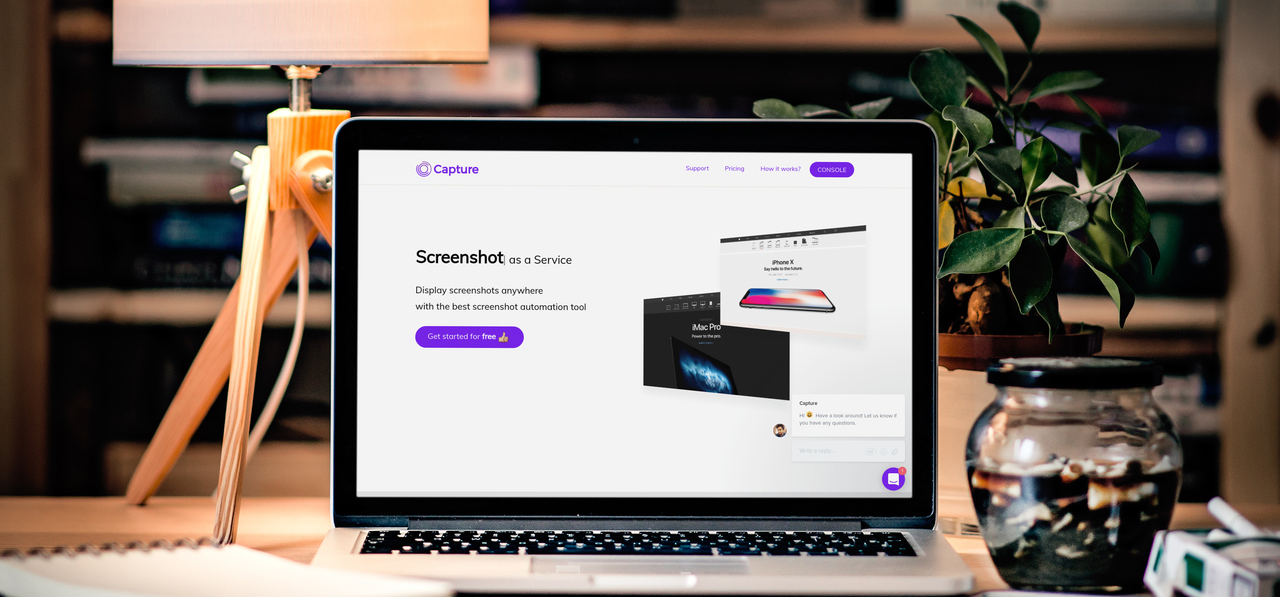
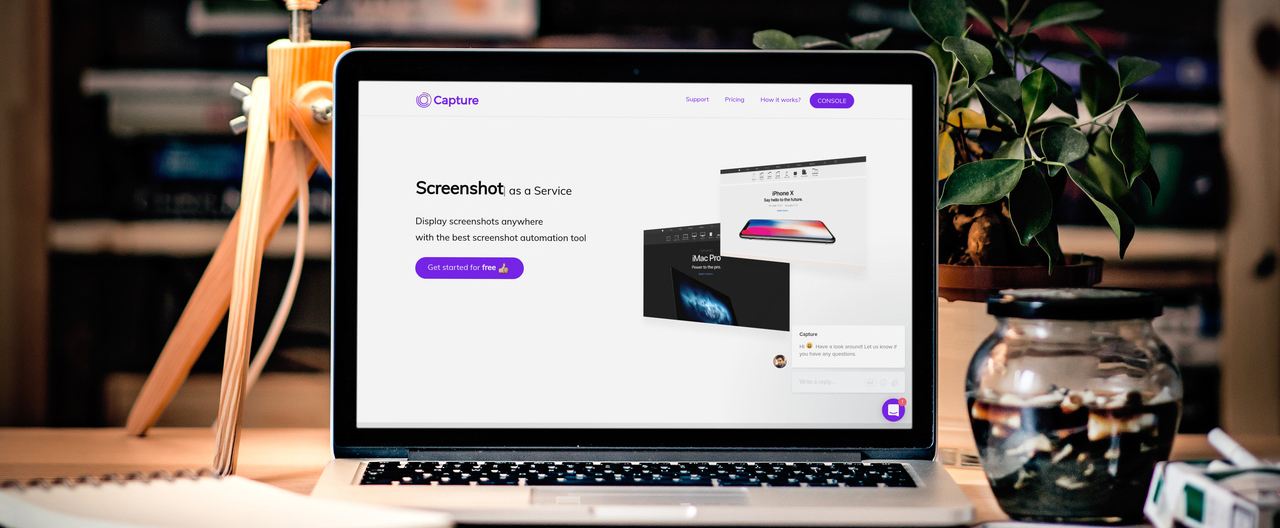
Update UI

diff --git a/index.html b/index.html
@@ -52,8 +52,19 @@
       color: rgb(33, 153, 256) !important;
     }
 
-    p {
-      font-size: 24px;
+    .title {
+      font-size: 5.2rem !important;
+      letter-spacing: -1px;
+      font-weight: 900;
+      margin-bottom: 0;
+    }
+
+    .subtitle {
+      font-size: 3rem !important;
+      letter-spacing: -1px;
+      font-weight: 600;
+      color: #6a737d !important;
+      margin-bottom: 24px;
     }
   </style>
 </head>
@@ -63,51 +74,47 @@
   <div class="container hidden-xs hidden-sm">
     <h1 class="logo"><a href="/"><img width="300" src="assets/img/logo.png" /></a></h1>
 
-    <div
-      style="position: relative; margin: 50px 0; border-radius: 0px; width: 100%; height: 405px; background-image: url(./assets/img/capture.jpg); background-size: cover;">
-      <div class="js-tilt"
-        style="border-radius: 5px; position: absolute; top: 20px; padding: 20px; padding-top: 10px; right: -10px;">
-        <h3><a href="https://capture.techulus.in/" target="_blank">Capture</a></h3>
-        <p>Enterprise Grade Screenshot & PDF API</p>
-      </div>
+    <a href="https://capture.techulus.in/" target="_blank">
+      <p class="title">Capture</p>
+    </a>
+    <p class="subtitle">Enterprise Grade Screenshot & PDF API</p>
+    <div style="width: 100%; height: 350px; background-image: url(./assets/img/capture.jpg); background-size: cover;">
     </div>
 
-    <div
-      style="position: relative; margin: 50px 0; border-radius: 0px; width: 100%; height: 405px; background-image: url(./assets/img/code.jpg); background-size: cover;">
-      <div class="js-tilt"
-        style="border-radius: 5px; position: absolute; top: 20px; padding: 20px; padding-top: 10px; right: -10px;">
-        <h3>
-          <a href="https://apps.apple.com/us/app/code-compile-run-snippets/id1515506950?ls=1" target="_blank">Code</a>
-        </h3>
-        <p>A light-weight, fast development<br />environment in your backpack!</p>
-      </div>
+    <br />
+
+    <a href="https://apps.apple.com/us/app/code-compile-run-snippets/id1515506950?ls=1" target="_blank">
+      <p class="title">Code</p>
+    </a>
+    <p class="subtitle">A light-weight, fast development environment in your backpack!</p>
+    <div style="width: 100%; height: 350px; background-image: url(./assets/img/code.jpg); background-size: cover;">
     </div>
 
-    <div
-      style="position: relative; margin: 50px 0; border-radius: 0px; width: 100%; height: 450px; background-image: url(./assets/img/push.jpg); background-size: cover;">
-      <div class="js-tilt"
-        style="border-radius: 5px; position: absolute; top: 20px; padding: 20px; padding-top: 10px; right: -10px;">
-        <h3><a href="https://push.techulus.com/" target="_blank">Push</a></h3>
-        <p>Get custom real-time notifications on<br />your iOS & Android devices</p>
-      </div>
+    <br />
+
+    <a href="https://push.techulus.com/" target="_blank">
+      <p class="title">Push</p>
+    </a>
+    <p class="subtitle">Get custom real-time notifications on your iOS & Android devices</p>
+    <div style="width: 100%; height: 350px; background-image: url(./assets/img/push.jpg); background-size: cover;">
     </div>
 
-    <div
-      style="position: relative; margin: 50px 0; border-radius: 0px; width: 100%; height: 450px; background-image: url(./assets/img/browser.jpg); background-size: cover;">
-      <div class="js-tilt"
-        style="border-radius: 5px; position: absolute; top: 20px; padding: 20px; padding-top: 10px; right: -10px;">
-        <h3><a href="https://browser.techulus.com/" target="_blank">Browser</a></h3>
-        <p>Headless Chrome as a Service</p>
-      </div>
+    <br />
+
+    <a href="https://browser.techulus.com/" target="_blank">
+      <p class="title">Browser</p>
+    </a>
+    <p class="subtitle">Headless Chrome as a Service</p>
+    <div style="width: 100%; height: 350px; background-image: url(./assets/img/browser.jpg); background-size: cover;">
     </div>
 
-    <div
-      style="position: relative; margin: 50px 0; border-radius: 0px; width: 100%; height: 450px; background-image: url(./assets/img/chronos.png); background-size: cover;">
-      <div class="js-tilt"
-        style="border-radius: 5px; position: absolute; top: 20px; padding: 20px; padding-top: 10px; right: -10px;">
-        <h3><a href="https://chronos.techulus.in/" target="_blank">Chronos for macOS</a></h3>
-        <p>Simple Pomodoro Timer<br /> Download from Mac App Store</p>
-      </div>
+    <br />
+
+    <a href="https://chronos.techulus.in/" target="_blank">
+      <p class="title">Chronos for macOS</p>
+    </a>
+    <p class="subtitle">Simple Pomodoro Timer Download from Mac App Store</p>
+    <div style="width: 100%; height: 350px; background-image: url(./assets/img/chronos.png); background-size: cover;">
     </div>
   </div>
 
@@ -136,32 +143,6 @@
         Policy</a></p>
   </div>
 
-  <!-- Scripts -->
-  <script src="assets/js/jquery.min.js"></script>
-  <script src="https://code.jquery.com/jquery-3.2.1.slim.min.js"
-    integrity="sha384-KJ3o2DKtIkvYIK3UENzmM7KCkRr/rE9/Qpg6aAZGJwFDMVNA/GpGFF93hXpG5KkN"
-    crossorigin="anonymous"></script>
-  <script src="https://cdnjs.cloudflare.com/ajax/libs/popper.js/1.11.0/umd/popper.min.js"
-    integrity="sha384-b/U6ypiBEHpOf/4+1nzFpr53nxSS+GLCkfwBdFNTxtclqqenISfwAzpKaMNFNmj4"
-    crossorigin="anonymous"></script>
-  <!-- Latest compiled and minified JavaScript -->
-  <script src="https://maxcdn.bootstrapcdn.com/bootstrap/3.3.7/js/bootstrap.min.js"
-    integrity="sha384-Tc5IQib027qvyjSMfHjOMaLkfuWVxZxUPnCJA7l2mCWNIpG9mGCD8wGNIcPD7Txa"
-    crossorigin="anonymous"></script>
-  <script src="assets/js/skel.min.js"></script>
-  <script src="assets/js/util.js"></script>
-  <!--[if lte IE 8]>
-<script src="assets/js/ie/respond.min.js"></script><![endif]-->
-  <script src="assets/js/main.js"></script>
-
-  <script async src="//pagead2.googlesyndication.com/pagead/js/adsbygoogle.js"></script>
-  <script>
-    (adsbygoogle = window.adsbygoogle || []).push({
-      google_ad_client: "ca-pub-1104404799908393",
-      enable_page_level_ads: true
-    });
-  </script>
-  
   <script>
   function initFreshChat() {
     window.fcWidget.init({
